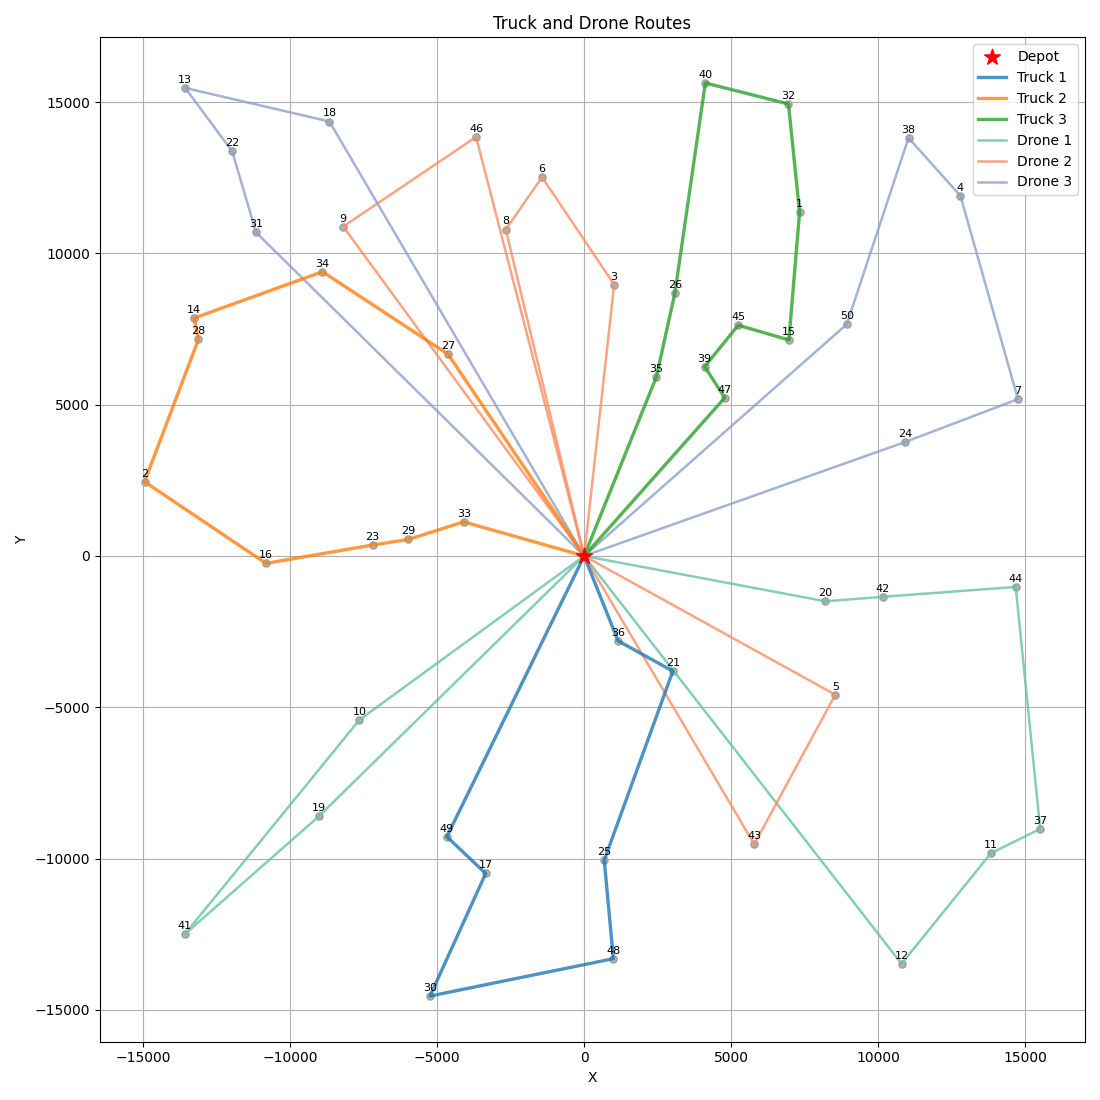
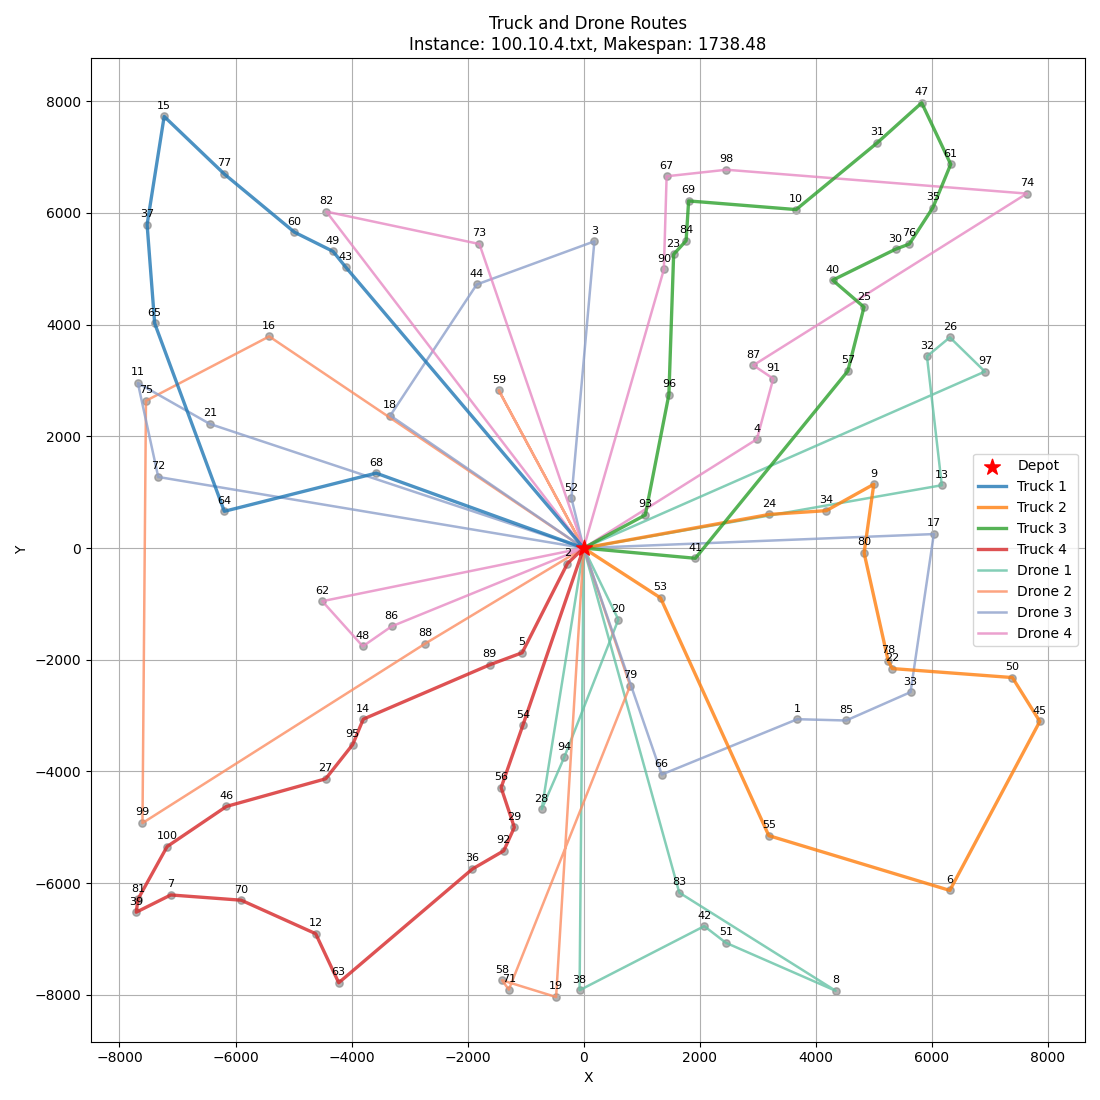
2nd objective: total time

diff --git a/plot_sol.py b/plot_sol.py
@@ -1,6 +1,9 @@
 import matplotlib.pyplot as plt
 from typing import List, Tuple, Dict
 import re
+import sys
+import os
+
 def read_instance(filename):
     with open(filename, 'r') as f:
         lines = f.readlines()
@@ -19,10 +22,6 @@ def read_instance(filename):
         dronable = int(float(parts[2]))
         customers.append((x, y, dronable))
     return depot_coords, customers
-
-file_path = '/workspaces/PDSTSP/instance/50.20.3.txt'
-
-depot, customers = read_instance(file_path)
 
 
 # --- New: Parse Served by Drone from output.txt ---
@@ -223,7 +222,32 @@ def parse_routes_from_output(output_file: str) -> Tuple[List[List[int]], List[Li
             continue
     return trucks, drones
 
-def plot_routes(instance_file: str, trucks: List[List[int]], drones: List[List[int]], savepath: str = 'routes_plot.png') -> None:
+def parse_makespan(output_file: str) -> float:
+    """
+    Parse makespan from output file.
+    Looks for lines like:
+    'Total validation: Makespan=42449.708024, ...'
+    or
+    'Current Solution Score: ..., Makespan: 42449.708024'
+    """
+    try:
+        with open(output_file, 'r') as f:
+            lines = f.readlines()
+    except FileNotFoundError:
+        return 0.0
+
+    for line in lines:
+        # Check for "Total validation: Makespan=..."
+        m = re.search(r'Makespan=([\d\.]+)', line)
+        if m:
+            return float(m.group(1))
+        # Check for "Makespan: ..."
+        m = re.search(r'Makespan:\s*([\d\.]+)', line)
+        if m:
+            return float(m.group(1))
+    return 0.0
+
+def plot_routes(instance_file: str, trucks: List[List[int]], drones: List[List[int]], savepath: str = 'routes_plot.png', title_suffix: str = "") -> None:
     depot, customers = read_instance(instance_file)
     id_to_xy: Dict[int, Tuple[float, float]] = {idx: (x, y) for idx, (x, y, _d) in enumerate(customers, start=1)}
     id_to_xy[0] = depot
@@ -276,7 +300,10 @@ def plot_routes(instance_file: str, trucks: List[List[int]], drones: List[List[i
 
     plt.xlabel('X')
     plt.ylabel('Y')
-    plt.title('Truck and Drone Routes')
+    title = 'Truck and Drone Routes'
+    if title_suffix:
+        title += f'\n{title_suffix}'
+    plt.title(title)
     plt.legend(loc='best')
     plt.grid(True)
     plt.tight_layout()
@@ -286,15 +313,30 @@ def plot_routes(instance_file: str, trucks: List[List[int]], drones: List[List[i
 
 # --- Entry point ---
 if __name__ == "__main__":
+    if len(sys.argv) >= 3:
+        instance_file = sys.argv[1]
+        solution_file = sys.argv[2]
+    else:
+        # Default fallback
+        instance_file = '/workspaces/PDSTSP/instance/200.40.4.txt'
+        solution_file = 'output_solution_best.txt'
+        print(f"Usage: python3 plot_sol.py <instance_file> <solution_file>")
+        print(f"Using defaults: {instance_file} {solution_file}")
+
+    # Extract info for title
+    instance_name = os.path.basename(instance_file)
+    makespan = parse_makespan(solution_file)
+    title_suffix = f"Instance: {instance_name}, Makespan: {makespan:.2f}"
+
     # 1) Try plotting routes if present
-    trucks, drones = parse_routes_from_output('output_solution_best.txt')
+    trucks, drones = parse_routes_from_output(solution_file)
     if trucks or drones:
-        plot_routes(file_path, trucks, drones, savepath='routes_plot.png')
+        plot_routes(instance_file, trucks, drones, savepath='routes_plot.png', title_suffix=title_suffix)
     else:
         # 2) Else try clusters
-        clusters = parse_clusters_from_output('output_solution_best.txt')
+        clusters = parse_clusters_from_output(solution_file)
         if clusters:
-            plot_clusters(file_path, clusters, savepath='clusters_plot.png')
+            plot_clusters(instance_file, clusters, savepath='clusters_plot.png')
         else:
             # 3) Else fallback to served-by-drone scatter
-            plot_served_by_drone(file_path, 'output.txt')
+            plot_served_by_drone(instance_file, 'output.txt')

diff --git a/tabubu.cpp b/tabubu.cpp
@@ -43,7 +43,7 @@ int L = 24; //number of time segments in a day
 vd time_segment = {0, 1, 2, 3, 4, 5, 6, 7, 8, 9, 10, 11, 12}; // time segment boundaries in hours
 vd time_segments_sigma = {0.9, 0.8, 0.4, 0.6,0.9, 0.8, 0.6, 0.8, 0.8, 0.7, 0.5, 0.8}; //sigma (truck velocity coefficient) for each time segments
 double Dd = 2.27, E = 7200000.0; //drone's weight and energy capacities (for all drones)
-double v_fly_drone = 31.2928, v_take_off = 15.6464, v_landing = 7.8232; // speed of the drone
+double v_fly_drone = 31.3, v_take_off = 15.6, v_landing = 7.8; // speed of the drone
 double height = 50; // height of the drone
 //double height = 0; // height of the drone
 //double power_beta = 0, power_gamma = 1.0; //coefficients for drone energy consumption per second
@@ -486,10 +486,10 @@ double solution_score(const Solution& sol) {
                                 + PENALTY_LAMBDA_ENERGY * sol.energy_violation
                                 + PENALTY_LAMBDA_DEADLINE * sol.deadline_violation;
      double mean_time_squared = 0.0;
-    for (double t : sol.truck_route_times) mean_time_squared += t * t;
-    for (double t : sol.drone_route_times) mean_time_squared += t * t;
-    mean_time_squared /= (h + d);            
-    return (sol.total_makespan + std::sqrt(mean_time_squared) * 1e-3) * pow(penalty_multiplier, PENALTY_EXPONENT);
+    for (double t : sol.truck_route_times) mean_time_squared += t;
+    for (double t : sol.drone_route_times) mean_time_squared += t;
+    mean_time_squared /= (h + d);        
+    return (sol.total_makespan + (mean_time_squared) * 1e-3) * pow(penalty_multiplier, PENALTY_EXPONENT);
 }
 
 double solution_score_total_time(const Solution& sol) {
@@ -1527,7 +1527,10 @@ Solution local_search(const Solution& initial_solution, int neighbor_id, int cur
                             
                             bool feasible = new_deadline <= 1e-8 && new_capacity <= 1e-8 && new_energy <= 1e-8;
                             
-                            if (is_tabu && !(score + 1e-8 < best_cost && feasible)) return;
+                            if (is_tabu && !(score + 1e-8 < best_cost && feasible)){
+                                cout << "Tabu move skipped: cust " << cust << " to vehicle " << target_veh << " until iter " << tabu_list_10[cust][target_veh] << "\n";
+                                return;
+                            }
                             
                             if (score + 1e-8 < best_neighbor_cost_local) {
                                 best_neighbor_cost_local = score;